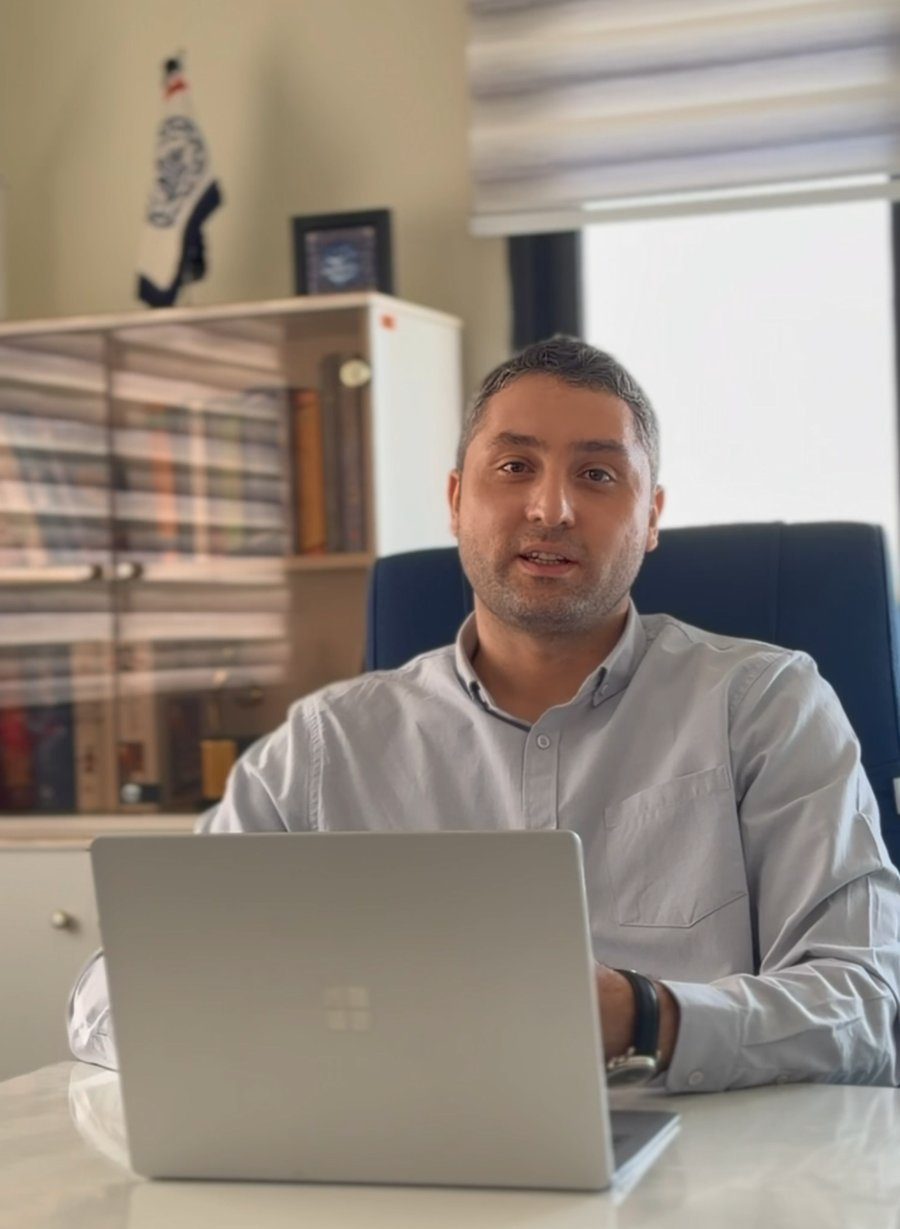
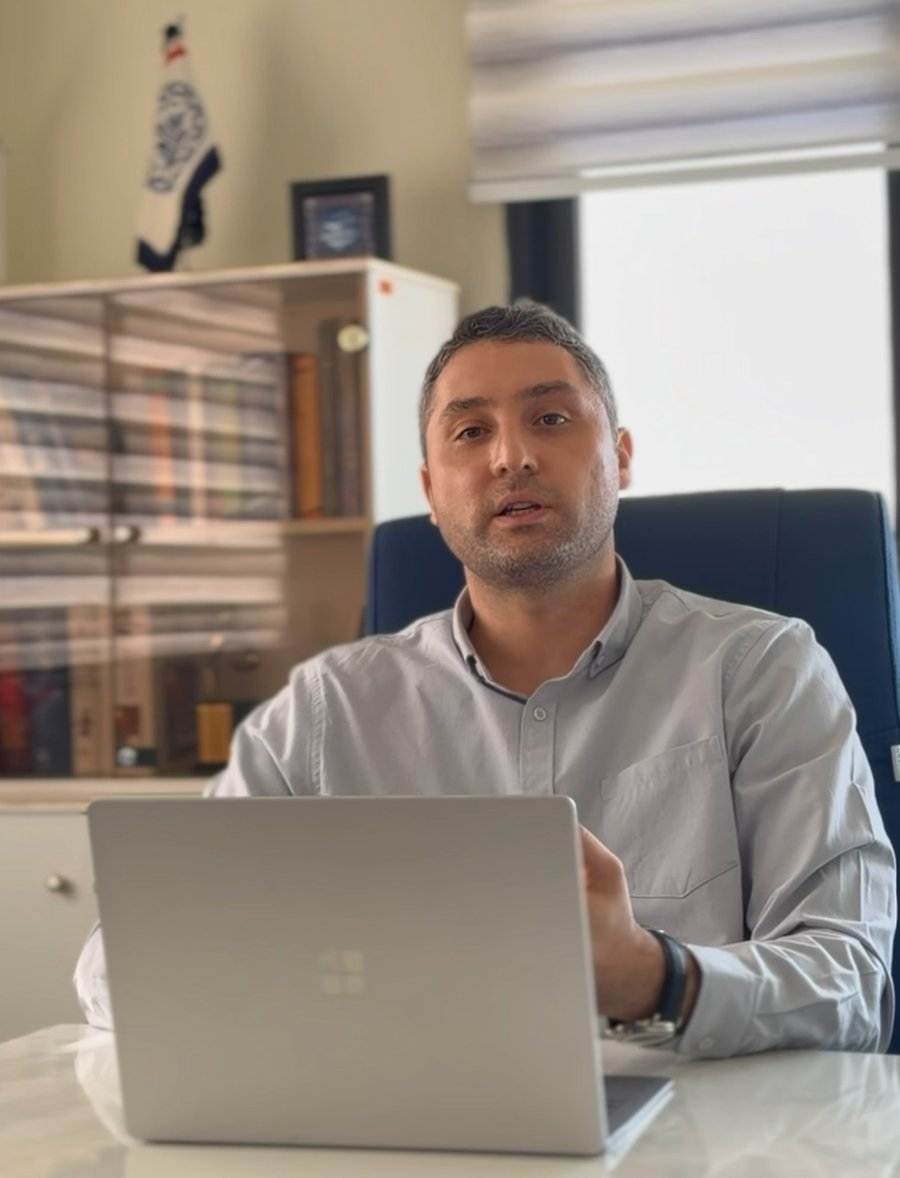
Swap hero portrait

diff --git a/index.html b/index.html
@@ -94,7 +94,7 @@
 
         <figure class="hero-figure">
           <div class="portrait">
-            <img src="assets/img/portrait.jpg" alt="Behzad Ahi in his office" width="900" height="1229" />
+            <img src="assets/img/portrait.jpg" alt="Behzad Ahi in his office" width="900" height="1178" />
           </div>
 
           <div class="scope" aria-label="Interactive step response of a second-order system">

diff --git a/assets/style.css b/assets/style.css
@@ -504,7 +504,7 @@ a:hover > .arrow {
   width: 100%;
   height: 100%;
   object-fit: cover;
-  object-position: 50% 45%;
+  object-position: 50% 35%;
 }
 
 .scope {
